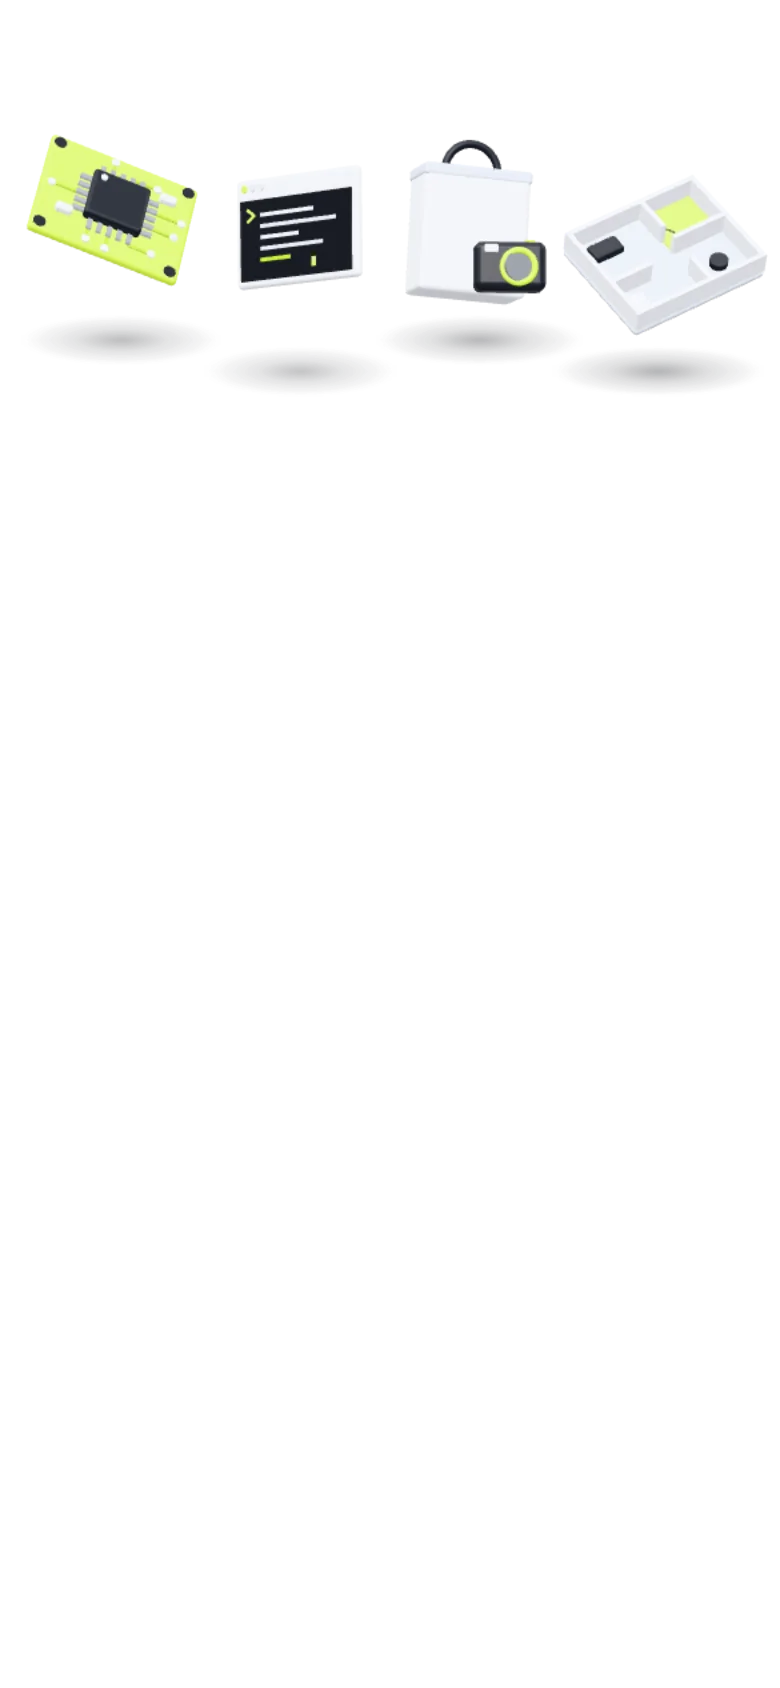
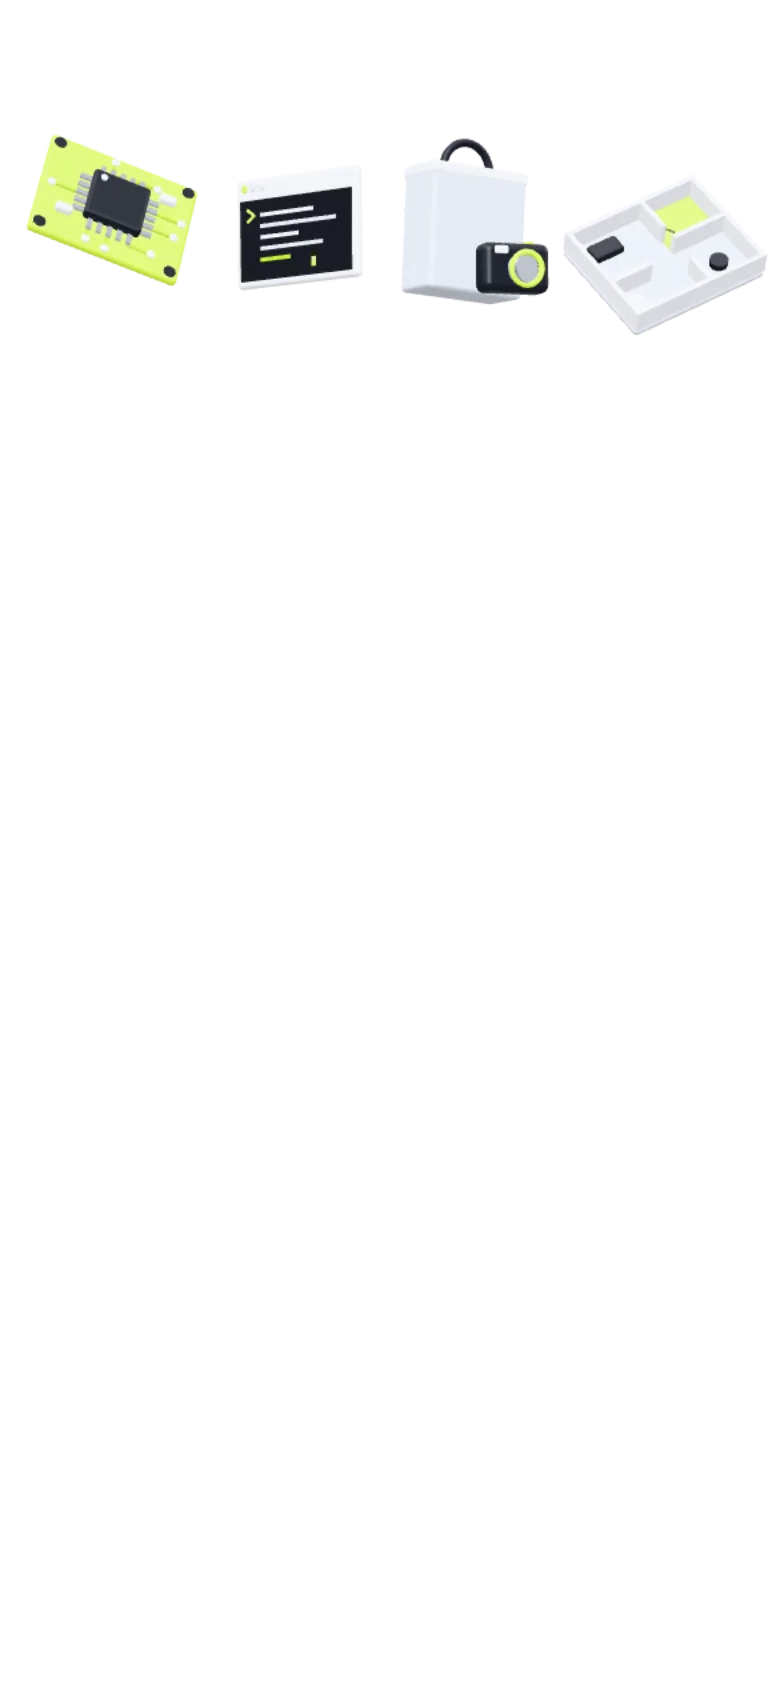
Ground the hero objects without crowding the page
- The shopping bag is light-gray clay with a white folded top, turned to
  show a side face, so it keeps its form against the porcelain ground.
- Contact shadows render only in the desktop layout, fade before they
  reach the paper sheet's edge, and fade as their object slides under
  the header. Reduced-motion stills re-rendered.

diff --git a/Portfolio-main/src/scene/scene.ts b/Portfolio-main/src/scene/scene.ts
@@ -120,6 +120,7 @@ export const createScene = (canvas: HTMLCanvasElement, opts: Options): SceneHand
 
 	let W = 1
 	let H = 1
+	let wide = true
 	let unit = 1 // world units per CSS pixel at z = 0
 
 	const layout = () => {
@@ -133,7 +134,8 @@ export const createScene = (canvas: HTMLCanvasElement, opts: Options): SceneHand
 		unit = (2 * halfH) / H
 		const contentHalf = Math.min(410, W / 2)
 		const margin = W / 2 - contentHalf
-		if (margin >= 130) {
+		wide = margin >= 130
+		if (wide) {
 			// desktop: three objects in each side margin
 			const size = Math.max(120, Math.min(200, margin * 0.74))
 			const xs = contentHalf + margin * 0.5
@@ -249,6 +251,8 @@ export const createScene = (canvas: HTMLCanvasElement, opts: Options): SceneHand
 		pointer.x += (pointer.tx - pointer.x) * 0.06
 		pointer.y += (pointer.ty - pointer.y) * 0.06
 
+		// where the paper sheet starts on screen: the bottom of the hero
+		const sheetTop = opts.hero.getBoundingClientRect().bottom
 		placed.forEach(p => {
 			if (!p.visible) return
 			const s = p.state
@@ -264,9 +268,15 @@ export const createScene = (canvas: HTMLCanvasElement, opts: Options): SceneHand
 			p.inner.position.y = bob * 0.09
 			// the shadow sits under the object and softens as it rises
 			const reach = p.size * unit * (0.55 + 0.45 * s.intro) * s.focus
-			p.shadow.position.set(0, -reach * 0.62, -0.4)
-			p.shadow.scale.set(reach * (1.05 - bob * 0.06), reach * 0.26, 1)
-			p.shadow.material.opacity = s.intro * (0.85 - bob * 0.12)
+			p.shadow.position.set(0, -reach * 0.56, -0.4)
+			p.shadow.scale.set(reach * (1.05 - bob * 0.06), reach * 0.24, 1)
+			// shadows only where the objects have room (the desktop margins); each one fades as its object
+			// slides under the header, and before it would touch the paper sheet's top edge
+			const shadowY = y + (p.size * (0.55 + 0.45 * s.intro) * s.focus) * 0.68
+			const underHeader = Math.min(1, Math.max(0, (y - 70) / 90))
+			const aboveSheet = Math.min(1, Math.max(0, (sheetTop - 28 - shadowY) / 48))
+			p.shadow.visible = wide
+			p.shadow.material.opacity = s.intro * (0.85 - bob * 0.12) * underHeader * aboveSheet
 			p.inner.rotation.set(
 				Math.sin(t * 0.33 + p.phase) * 0.1 + pointer.y * 0.18 + scrollNow * 0.0004 * p.depth,
 				Math.sin(t * 0.27 + p.phase) * 0.32 + pointer.x * 0.28 + scrollNow * 0.0012 * (p.depth > 1 ? -1 : 1) + s.spin,

diff --git a/Portfolio-main/src/scene/models.ts b/Portfolio-main/src/scene/models.ts
@@ -124,8 +124,9 @@ const car = (): Part[] => {
 }
 
 const bag = (): Part[] => [
-	{ geo: rb(1.24, 1.4, 0.62, 0.06), mat: 'white' },
-	{ geo: rb(1.26, 0.14, 0.64, 0.04), mat: 'soft', at: [0, 0.64, 0] },
+	// light-gray clay with a white folded top, so the bag holds its form against the porcelain ground
+	{ geo: rb(1.24, 1.4, 0.62, 0.06), mat: 'soft' },
+	{ geo: rb(1.26, 0.14, 0.64, 0.04), mat: 'white', at: [0, 0.64, 0] },
 	{ geo: new THREE.TorusGeometry(0.31, 0.045, 10, 36, Math.PI), mat: 'ink', at: [0, 0.7, 0] },
 	// the camera in front: photo search
 	{ geo: rb(0.8, 0.54, 0.34, 0.09), mat: 'ink', at: [0.36, -0.4, 0.46], rot: [0, -0.18, 0.06] },
@@ -224,7 +225,7 @@ export const poses: Record<SceneObject, [number, number, number]> = {
 	chip: [0.95, -0.35, -0.18],
 	floorplan: [0.9, 0.42, 0.12],
 	car: [0.32, -0.62, 0.04],
-	bag: [0.12, 0.5, -0.06],
+	bag: [0.14, 0.78, -0.06],
 	dumbbell: [0.35, 0.65, 0.42],
 	terminal: [0.12, -0.38, 0.03],
 }
